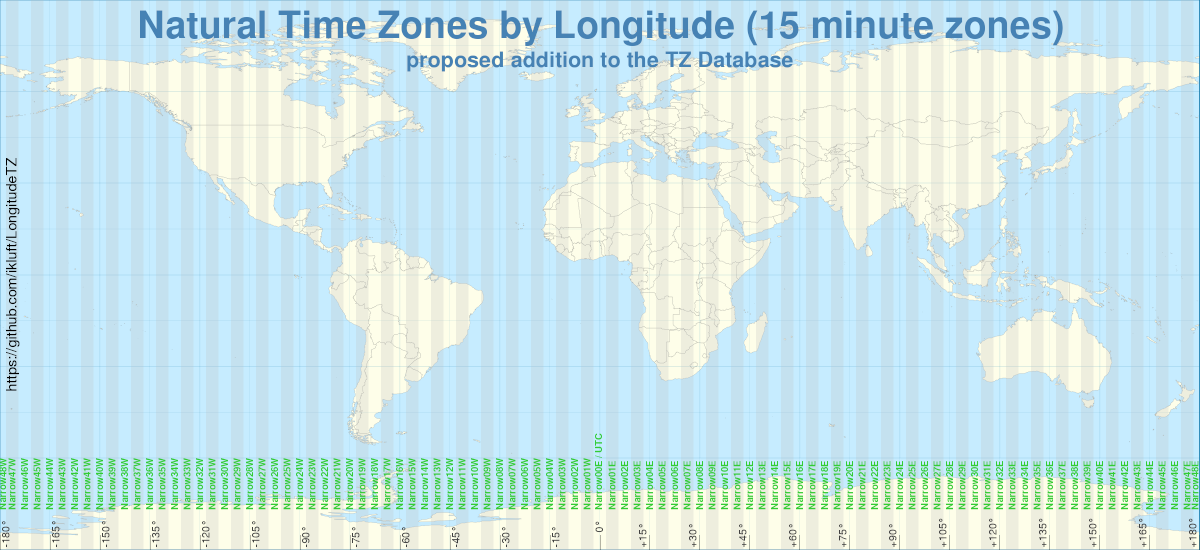
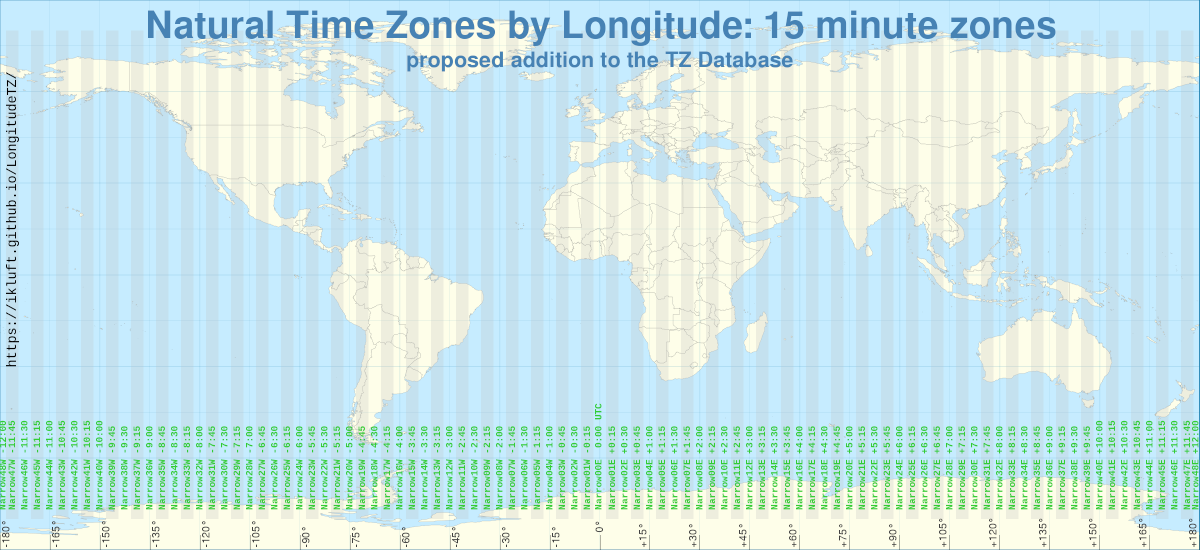
update map images, link to higher resolution image, clean up READMEs

diff --git a/README.md b/README.md
@@ -38,7 +38,7 @@ Keep in mind that the decision to opt-out of Daylight Saving Time can be done by
 
 With time zone data for the natural solar time zones, computers can convert between natural and regulatory time zones automatically.
 
-<a href="docs/world_zone_map-1200.png"><img src="docs/world_zone_map-1200.png" width="100%" title="Natural Time Zones by Longitude" /></a>
+<a href="docs/world_zone_map-1200.png"><img src="docs/world_zone_map.png" width="100%" title="Natural Time Zones by Longitude" /></a>
 
 This project is intended to make such an alternative. The objective is to make software libraries to set local natural solar time zone based on longitude. It also maintains time zone files compatible with the *TZ Database* standard which allow any device or server to use them. The *tzfile* data files are what allow systems to convert between traditional and longitude-based time zones automatically.
 
@@ -59,7 +59,7 @@ The project also makes and accepts contributions of code in various programming 
 
 The project also makes another set of overlay time zones the width of 3.75 degrees of longitude, which puts them in 15-minute intervals of time. These are a more local niche for potential use by regions which have 30- or 15-minute offset time zones, or for planning outdoor events around local sunlight. These make the middle of the scheduling day better coincide with local solar noon.
 
-<a href="docs/narrow_zone_map-1200.png"><img src="docs/narrow_zone_map-1200.png" width="100%" title="Natural Time Zones by Longitude" /></a>
+<a href="docs/narrow_zone_map-1200.png"><img src="docs/narrow_zone_map.png" width="100%" title="Natural Time Zones by Longitude" /></a>
 
 ## <a name="implementations">Implementations</a>
 

diff --git a/docs/README.md b/docs/README.md
@@ -2,7 +2,7 @@
 
 project documentation
 
-* [top-level project README](../README.md)
+* [Solar Time Zones Definition](solar_tz_definition.md)
 * [LongitudeTZ Command-line Interface Specification](cli-spec.md)
 
 ## Longitude-based Time Zones
@@ -26,7 +26,7 @@ The project also makes and accepts contributions of code in various programming 
 
 The project also makes another set of overlay time zones the width of 1 degree of longitude, which puts them in 4-minute intervals of time. These are a hyper-local niche for anyone who prefers higher resolution such as for planning outdoor events around daylight. It may also be of interest to have smaller time increments in regions bisected by boundaries of hour-wide time zones. In general, the purpose is for more the middle of the scheduling day to coincide within a few minutes of local solar noon.
 
-<a href="world_zone_map-1200.png"><img src="world_zone_map-1200.png" width="100%" title="Natural Time Zones by Longitude" /></a>
+<a href="world_zone_map-1200.png"><img src="world_zone_map.png" width="100%" title="Natural Time Zones by Longitude" /></a>
 
 ### The Solar Time Zones Definition
 
